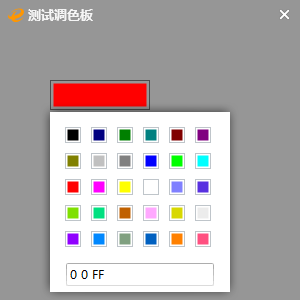
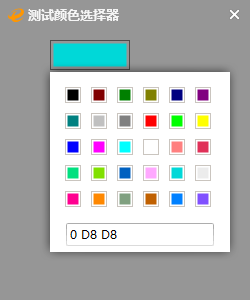
update

diff --git a/msvc/test/test_obj.cpp b/msvc/test/test_obj.cpp
@@ -2649,7 +2649,7 @@ LRESULT CALLBACK OnColorPickerButtonEvent(HEXOBJ hObj, INT nID, INT nCode, WPARA
 
 void test_colorpicker(HWND hParent)
 {
-	HWND hWnd_colorpicker = Ex_WndCreate(hParent, L"Ex_DirectUI", L"测试颜色选择器", 0, 0, 200, 100, 0, 0);
+	HWND hWnd_colorpicker = Ex_WndCreate(hParent, L"Ex_DirectUI", L"测试颜色选择器", 0, 0, 250, 300, 0, 0);
 	HEXDUI hExDui_colorpicker = Ex_DUIBindWindowEx(hWnd_colorpicker, 0, EWS_NOINHERITBKG | EWS_MOVEABLE | EWS_CENTERWINDOW | EWS_NOSHADOW | EWS_BUTTON_CLOSE | EWS_TITLE | EWS_HASICON, 0, 0);
 	Ex_DUISetLong(hExDui_colorpicker, EWL_CRBKG, ExARGB(150, 150, 150, 255));
 	HEXOBJ hObj = Ex_ObjCreate(L"ColorPicker", 0, -1, 50, 40, 80, 30, hExDui_colorpicker);
